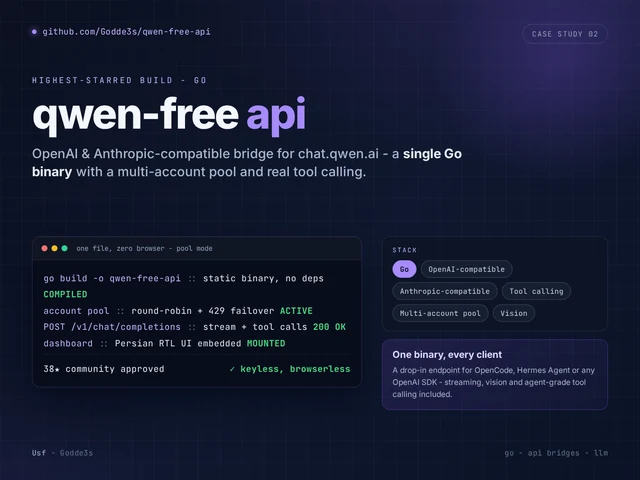
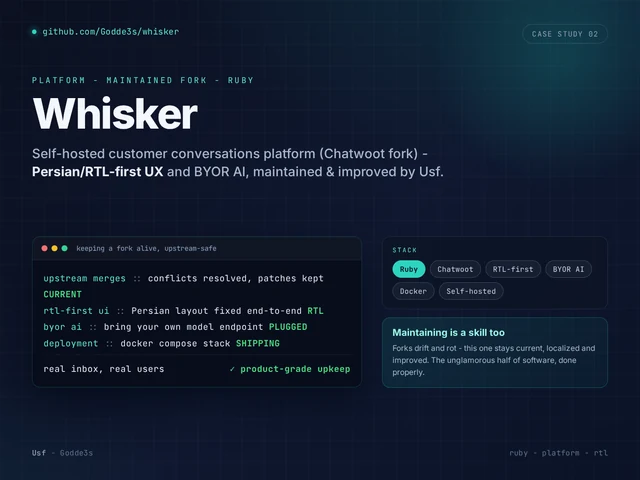
v20: fully new laptop stories (VeilChat, Whisker, Goftego, Anti-Treason Bot) + covers; frontend & web category (this portfolio, fa-guides) -> 17 cards; much tighter mobile work section (1-line desc, 101px cards); animated wolf (stronger float + ground shadow + pointer parallax, motion-pause aware)

diff --git a/index.html b/index.html
@@ -19,7 +19,7 @@
   <link rel="preconnect" href="https://fonts.googleapis.com">
   <link rel="preconnect" href="https://fonts.gstatic.com" crossorigin>
   <link href="https://fonts.googleapis.com/css2?family=Source+Serif+4:opsz,wght@8..60,400;8..60,500;8..60,600&family=Inter:wght@400;500;600&family=JetBrains+Mono:wght@400;500&display=swap" rel="stylesheet">
-  <link rel="stylesheet" href="assets/style.css?v=19">
+  <link rel="stylesheet" href="assets/style.css?v=20">
 </head>
 <body>
 <a class="skip" href="#main">Skip to content</a>
@@ -63,7 +63,7 @@
     <div class="stats-band">
       <div class="container stats-grid">
         <div class="stat reveal"><strong>30</strong><span>public repos</span></div>
-        <div class="stat reveal"><strong>15</strong><span>linked projects</span></div>
+        <div class="stat reveal"><strong>17</strong><span>linked projects</span></div>
         <div class="stat reveal"><strong>3<i>+</i></strong><span>languages</span></div>
         <div class="stat reveal"><strong>2025</strong><span>shipping since</span></div>
       </div>
@@ -75,11 +75,12 @@
     <div class="container">
       <header class="section-head reveal">
         <h2 class="display-2">One person, shipping like a team.</h2>
-        <p class="section-sub">Fifteen public builds across APIs, AI, apps and industrial — filter by what you need.</p>
+        <p class="section-sub">Seventeen public builds across frontend, APIs, AI, apps and industrial — filter by what you need.</p>
       </header>
 
       <div class="work-filters reveal" role="group" aria-label="Filter projects by category">
-        <button class="work-chip is-active" type="button" data-filter="all">All <span>15</span></button>
+        <button class="work-chip is-active" type="button" data-filter="all">All <span>17</span></button>
+        <button class="work-chip" type="button" data-filter="web">Frontend &amp; Web <span>2</span></button>
         <button class="work-chip" type="button" data-filter="api">Backend &amp; APIs <span>7</span></button>
         <button class="work-chip" type="button" data-filter="ai">AI &amp; Automation <span>3</span></button>
         <button class="work-chip" type="button" data-filter="apps">Apps <span>3</span></button>
@@ -192,6 +193,20 @@
           <span class="wc-tags mono">PHP - WordPress - Shortcodes</span>
           <span class="wc-arrow" aria-hidden="true">↗</span>
         </a>
+        <a class="work-card reveal" data-cat="web" href="https://github.com/Godde3s/godde3s.github.io" target="_blank" rel="noopener">
+          <span class="wc-top mono"><span class="wc-idx">16</span><span class="wc-cat">Frontend &amp; web</span></span>
+          <span class="wc-name">This Portfolio</span>
+          <span class="wc-desc">The site you are on — hand-rolled HTML, CSS &amp; vanilla JS, zero templates</span>
+          <span class="wc-tags mono">HTML - CSS - Vanilla JS</span>
+          <span class="wc-arrow" aria-hidden="true">↗</span>
+        </a>
+        <a class="work-card reveal" data-cat="web" href="https://github.com/Godde3s/fa-guides" target="_blank" rel="noopener">
+          <span class="wc-top mono"><span class="wc-idx">17</span><span class="wc-cat">Frontend &amp; web</span></span>
+          <span class="wc-name">fa-guides</span>
+          <span class="wc-desc">Persian RTL interactive guides with a built-in self-quiz — no framework</span>
+          <span class="wc-tags mono">HTML - RTL - Interactive</span>
+          <span class="wc-arrow" aria-hidden="true">↗</span>
+        </a>
       </div>
 
       <p class="work-more reveal"><a class="ghost-link mono" href="https://github.com/Godde3s?tab=repositories" target="_blank" rel="noopener">View all repositories&nbsp;↗</a></p>
@@ -216,15 +231,15 @@
           </button>
 
           <div class="screen-content" style="--screen-left:10%; --screen-top:1.5%; --screen-width:80%; --screen-height:87.5%">
-            <a href="https://github.com/Godde3s/hermes-stack" target="_blank" rel="noopener" class="screen-link">
+            <a href="https://github.com/Godde3s/veilchat" target="_blank" rel="noopener" class="screen-link">
               <div class="screen-image-wrapper">
                 <img
-                  src="assets/stories/story-1.webp?v=19"
-                  srcset="assets/stories/story-1-640.webp?v=19 640w, assets/stories/story-1.webp?v=19 1280w"
+                  src="assets/stories/story-1.webp?v=20"
+                  srcset="assets/stories/story-1-640.webp?v=20 640w, assets/stories/story-1.webp?v=20 1280w"
                   sizes="(max-width: 760px) 62vw, 440px"
                   class="screen-image"
                   style="object-position: center center"
-                  alt="Hermes Stack — self-hosted AI agent team with model routing and automations"
+                  alt="VeilChat — serverless P2P messenger with end-to-end encryption"
                   width="1280"
                   height="959"
                   loading="lazy"
@@ -474,6 +489,6 @@
   </div>
 </footer>
 
-<script src="assets/script.js?v=16"></script>
+<script src="assets/script.js?v=17"></script>
 </body>
 </html>

diff --git a/assets/script.js b/assets/script.js
@@ -1,6 +1,7 @@
 /* ============================================================
-   Usf (Godde3s) — v16
-   pause-motion control, reveal-on-scroll, work filters, laptop stories slider.
+   Usf (Godde3s) — v17
+   pause-motion control, reveal-on-scroll, work filters, laptop stories slider,
+   wolf pointer-parallax.
    ============================================================ */
 (function () {
   'use strict';
@@ -57,6 +58,32 @@
   var year = document.getElementById('year');
   if (year) year.textContent = String(new Date().getFullYear());
 
+  /* ---------------- wolf pointer parallax ----------------
+     The CSS keyframe float runs on .wolf-img; the pointer adds a
+     gentle layered drift on .wolf-stage. Fully disabled when motion
+     is paused (motion-off) or reduced motion is preferred. */
+  (function () {
+    var stage = document.querySelector('.wolf-stage');
+    if (!stage || !window.matchMedia('(pointer: fine)').matches) return;
+    var raf = null, tx = 0, ty = 0;
+    function apply() {
+      raf = null;
+      stage.style.transform = 'translate3d(' + tx.toFixed(1) + 'px,' + ty.toFixed(1) + 'px,0)';
+    }
+    stage.closest('.hero').addEventListener('mousemove', function (e) {
+      if (root.classList.contains('motion-off')) return;
+      var r = stage.getBoundingClientRect();
+      var cx = r.left + r.width / 2, cy = r.top + r.height / 2;
+      tx = ((e.clientX - cx) / Math.max(window.innerWidth, 1)) * 14;
+      ty = ((e.clientY - cy) / Math.max(window.innerHeight, 1)) * 10;
+      if (!raf) raf = window.requestAnimationFrame(apply);
+    });
+    stage.closest('.hero').addEventListener('mouseleave', function () {
+      tx = 0; ty = 0;
+      if (!raf) raf = window.requestAnimationFrame(apply);
+    });
+  })();
+
   /* ---------------- work category filters ---------------- */
   var chips = Array.prototype.slice.call(document.querySelectorAll('.work-chip'));
   var workCards = Array.prototype.slice.call(document.querySelectorAll('.work-card'));
@@ -80,36 +107,36 @@
 
   var STORIES = [
     {
-      image: 'assets/stories/story-1.webp?v=19',
-      srcset: 'assets/stories/story-1-640.webp?v=19 640w, assets/stories/story-1.webp?v=19 1280w',
+      image: 'assets/stories/story-1.webp?v=20',
+      srcset: 'assets/stories/story-1-640.webp?v=20 640w, assets/stories/story-1.webp?v=20 1280w',
       imageHeight: 959,
       objectPosition: 'center center',
-      link: 'https://github.com/Godde3s/hermes-stack',
-      alt: 'Hermes Stack — self-hosted AI agent team with model routing and automations'
+      link: 'https://github.com/Godde3s/veilchat',
+      alt: 'VeilChat — serverless P2P messenger with end-to-end encryption'
     },
     {
-      image: 'assets/stories/story-2.webp?v=19',
-      srcset: 'assets/stories/story-2-640.webp?v=19 640w, assets/stories/story-2.webp?v=19 1280w',
+      image: 'assets/stories/story-2.webp?v=20',
+      srcset: 'assets/stories/story-2-640.webp?v=20 640w, assets/stories/story-2.webp?v=20 1280w',
       imageHeight: 959,
       objectPosition: 'center center',
-      link: 'https://github.com/Godde3s/qwen-free-api',
-      alt: 'qwen-free-api — single Go binary bridging Qwen to OpenAI-compatible clients'
+      link: 'https://github.com/Godde3s/whisker',
+      alt: 'Whisker — self-hosted customer conversations platform, Persian/RTL-first, maintained by Usf'
     },
     {
-      image: 'assets/stories/story-3.webp?v=19',
-      srcset: 'assets/stories/story-3-640.webp?v=19 640w, assets/stories/story-3.webp?v=19 1280w',
+      image: 'assets/stories/story-3.webp?v=20',
+      srcset: 'assets/stories/story-3-640.webp?v=20 640w, assets/stories/story-3.webp?v=20 1280w',
       imageHeight: 959,
       objectPosition: 'center center',
-      link: 'https://github.com/Godde3s/modbuslite',
-      alt: 'ModbusLite — strict Modbus TCP client library for C# / .NET 8'
+      link: 'https://github.com/Godde3s/goftego',
+      alt: 'Goftego — self-hosted realtime chat rooms with WebSocket fan-out and JWT auth'
     },
     {
-      image: 'assets/stories/story-4.webp?v=19',
-      srcset: 'assets/stories/story-4-640.webp?v=19 640w, assets/stories/story-4.webp?v=19 1280w',
+      image: 'assets/stories/story-4.webp?v=20',
+      srcset: 'assets/stories/story-4-640.webp?v=20 640w, assets/stories/story-4.webp?v=20 1280w',
       imageHeight: 959,
       objectPosition: 'center center',
-      link: 'https://github.com/Godde3s/peregrine',
-      alt: 'Peregrine — React Native - Expo AI console for iOS & Android'
+      link: 'https://github.com/Godde3s/anti-treason-bot',
+      alt: 'Anti-Treason Bot — Telegram anti-cheat guard on Cloudflare Workers with 352 tests'
     }
   ];
 

diff --git a/assets/style.css b/assets/style.css
@@ -116,13 +116,27 @@ button { font: inherit; color: inherit; }
 .wolf-stage { position: relative; margin-top: clamp(8px, 2vw, 24px); text-align: center; }
 .wolf-img {
   width: min(640px, 86vw); height: auto; display: inline-block;
-  animation: wolfFloat 7s ease-in-out infinite;
+  animation: wolfFloat 6s ease-in-out infinite;
+  will-change: transform;
+}
+.wolf-stage::after {
+  content: ""; display: block; width: min(380px, 52vw); height: 14px;
+  margin: -2px auto 0; border-radius: 50%;
+  background: radial-gradient(50% 50% at 50% 50%, rgba(32,30,25,.30), rgba(32,30,25,0) 70%);
+  animation: wolfShadow 6s ease-in-out infinite;
 }
 @keyframes wolfFloat {
-  0%, 100% { transform: translateY(0); }
-  50% { transform: translateY(-10px); }
+  0%, 100% { transform: translateY(0) rotate(0deg); }
+  50% { transform: translateY(-18px) rotate(-1.2deg); }
 }
-.motion-off .wolf-img { animation: none; }
+@keyframes wolfShadow {
+  0%, 100% { transform: scaleX(1); opacity: .8; }
+  50% { transform: scaleX(.82); opacity: .4; }
+}
+.motion-off .wolf-img, .motion-off .wolf-stage::after { animation: none; }
+@media (prefers-reduced-motion: reduce) {
+  .wolf-stage::after { animation: none; }
+}
 
 .motion-btn {
   position: absolute; left: 0; bottom: 6px;
@@ -346,7 +360,11 @@ button { font: inherit; color: inherit; }
 .footer-cta { text-align: center; padding: clamp(56px, 8vw, 100px) 0 clamp(40px, 6vw, 72px); position: relative; }
 .footer-wolf {
   width: clamp(140px, 20vw, 220px); height: auto; opacity: .9;
-  animation: wolfFloat 7s ease-in-out infinite;
+  animation: wolfFloatSoft 7s ease-in-out infinite;
+}
+@keyframes wolfFloatSoft {
+  0%, 100% { transform: translateY(0); }
+  50% { transform: translateY(-7px); }
 }
 .motion-off .footer-wolf { animation: none; }
 .display-1 {
@@ -412,8 +430,14 @@ button { font: inherit; color: inherit; }
 @media (max-width: 760px) {
   :root { --gutter: 18px; }
   .nav-links { display: none; }
-  .work-grid { grid-template-columns: 1fr; }
-  .work-card { min-height: 0; padding: 13px 38px 12px 16px; }
+  .section { padding: 46px 0 0; }
+  .work-filters { margin-top: 20px; }
+  .work-grid { grid-template-columns: 1fr; margin-top: 10px; }
+  .work-card { min-height: 0; padding: 10px 34px 10px 14px; gap: 3px; }
+  .wc-name { font-size: 16.5px; }
+  .wc-desc { font-size: 12px; line-height: 1.4; -webkit-line-clamp: 1; }
+  .wc-tags { font-size: 10.5px; padding-top: 1px; }
+  .wc-arrow { top: 12px; right: 12px; font-size: 13px; }
   .stats-grid { grid-template-columns: repeat(2, 1fr); }
   .stat:nth-child(3) { border-left: 0; }
   .stat:nth-child(n+3) { border-top: 1px solid var(--line); }

diff --git a/README.md b/README.md
@@ -10,10 +10,10 @@ A deliberately simple, single-page portfolio built with plain HTML, CSS and vani
 
 ## Sections
 
-- Hero — open-to-work tag, "- Interested in learning !!" kicker, "Software .eng && System designer" headline, wolf mascot with pause-motion control
+- Hero — open-to-work tag, "- Interested in learning !!" kicker, "Software .eng && System designer" headline, floating wolf mascot (ground shadow + pointer parallax, honors the pause-motion control)
 - In numbers — stats band (repos, projects, languages)
-- Selected work — 15 compact project cards with category filter chips (Backend & APIs / AI & Automation / Apps / Infra & Industrial), including the Usf Resume WordPress plugin
-- Project stories — MacBook slider featuring Hermes Stack (AI agent infra), qwen-free-api (Go), ModbusLite (C# industrial) and Peregrine (React Native - Expo); every slide opens its repository. Touch swipe enabled
+- Selected work — 17 compact project cards with category filter chips (Frontend & Web / Backend & APIs / AI & Automation / Apps / Infra & Industrial), including this portfolio itself, fa-guides and the Usf Resume WordPress plugin
+- Project stories — MacBook slider featuring VeilChat (P2P encryption), Whisker (maintained Ruby platform), Goftego (realtime full-stack) and Anti-Treason Bot (Cloudflare Workers, 352 tests); every slide opens its repository. Touch swipe enabled
 - The toolbox — 8 categorized skill bands: AI-augmented workflow (Claude Code, Hermes, OpenCode, custom AI agents for organizations, RAG pipelines), frontend & UI/UX (incl. WordPress), backend & APIs (language stack cards: Python, Node.js, Go, C#), databases, system design, desktop/IoT/industrial, DevOps & cloud (AWS, Cloudflare, Vercel…), learning now (Astro on Cloudflare Workers)
 - How it works — three steps, AI agent team emphasized
 - Footer — CTA, link columns and a giant USF wordmark
